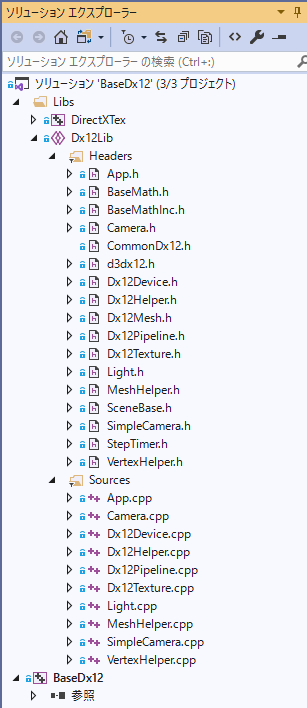
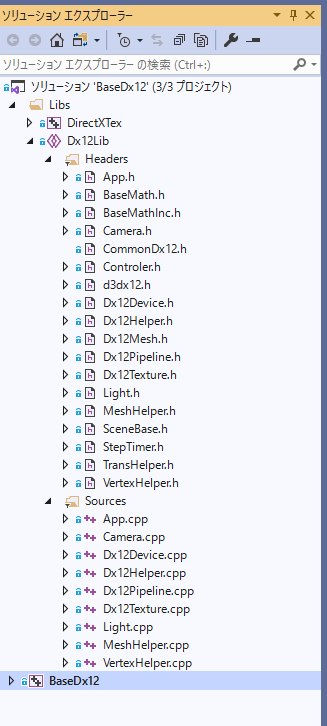
ライブラリファイルのフルからシンプルに移動と、ドキュメント修正。

Changed region(s): [[0.0, 0.0, 1.0, 1.0]]

diff --git a/docs/1101.html b/docs/1101.html
@@ -22,8 +22,8 @@
 <h1 class="pagetitle">１１０１．シンプルな三角形の描画（１）</h1>
 <h4>サンプルの実行</h4>
 　<b>BaseDx12</b>には<b>シンプルバージョン</b>と<b>フルバージョン</b>という2つのバージョンがあります。<br />
-　前者は<b>Dx12</b>の機能を実装するための<b>サポート</b>的な内容となります。ですので<b>衝突判定</b>や<b>物理エンジン</b>などの機能は持ってません。<br />
-　後者は<b>Dx12</b>の知識はなくても<b>C++</b>の知識があれば、コンテンツをある程度実装できると思います。こちらには<b>衝突判定、物理エンジン、補間処理、ユーティリティ的な行動</b>などが実装されます。また、<b>モデルの描画</b>や<b>モデルのアニメーション</b>なども、比較的簡単に実装できます。<br />
+　前者は<b>Dx12</b>の機能を実装するための<b>サポート</b>的な内容となります。ですので<b>物理エンジン</b>や<b>補間処理</b>などの機能は持ってません。（簡単な<b>衝突判定</b>は持っています）。<br />
+　後者は<b>Dx12</b>の知識はなくても<b>C++</b>の知識があれば、コンテンツをある程度実装できると思います。こちらには物理エンジン、補間処理、ユーティリティ的な行動</b>などが実装されます。また、<b>モデルの描画</b>や<b>モデルのアニメーション</b>なども、比較的簡単に実装できます。<br />
 　<b>【第1部】シンプルバージョン編</b>では、前者の解説です。フルバージョンを試してみたい方は<b>【第2部】フルバージョン編</b>を参照してください。<br />
 　<b>SimpleSample101</b>というディレクトリ内の<b>BaseDx12.sln</b>を<b>VS2019</b>で開いてください。<br />
 　リビルドして実行すると、以下の画面が出てきます。

diff --git a/Libs/Dx12Lib/CommonDx12.h b/Libs/Dx12Lib/CommonDx12.h
@@ -13,6 +13,7 @@ using namespace basedx12::bsm;
 #include "Dx12Texture.h"
 #include "Dx12Mesh.h"
 #include "Controler.h"
+#include "TransHelper.h"
 #include "SceneBase.h"
 #include "App.h"
 #include "Dx12Pipeline.h"

diff --git a/Libs/Dx12FullLib/CommonDx12Full.h b/Libs/Dx12FullLib/CommonDx12Full.h
@@ -4,7 +4,6 @@
 #include "physics_effects/include/physics_effects.h"
 #include "Device2D.h"
 #include "Device3D.h"
-#include "TransHelper.h"
 #include "BasePhysics.h"
 #include "Behavior.h"
 #include "UpdateComp.h"
